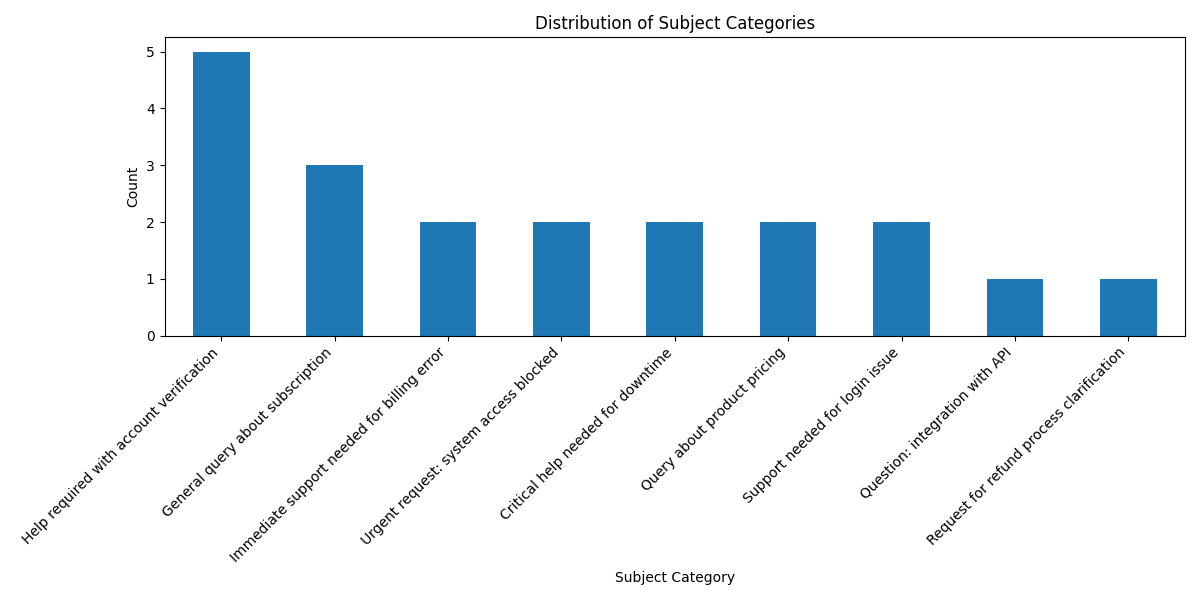
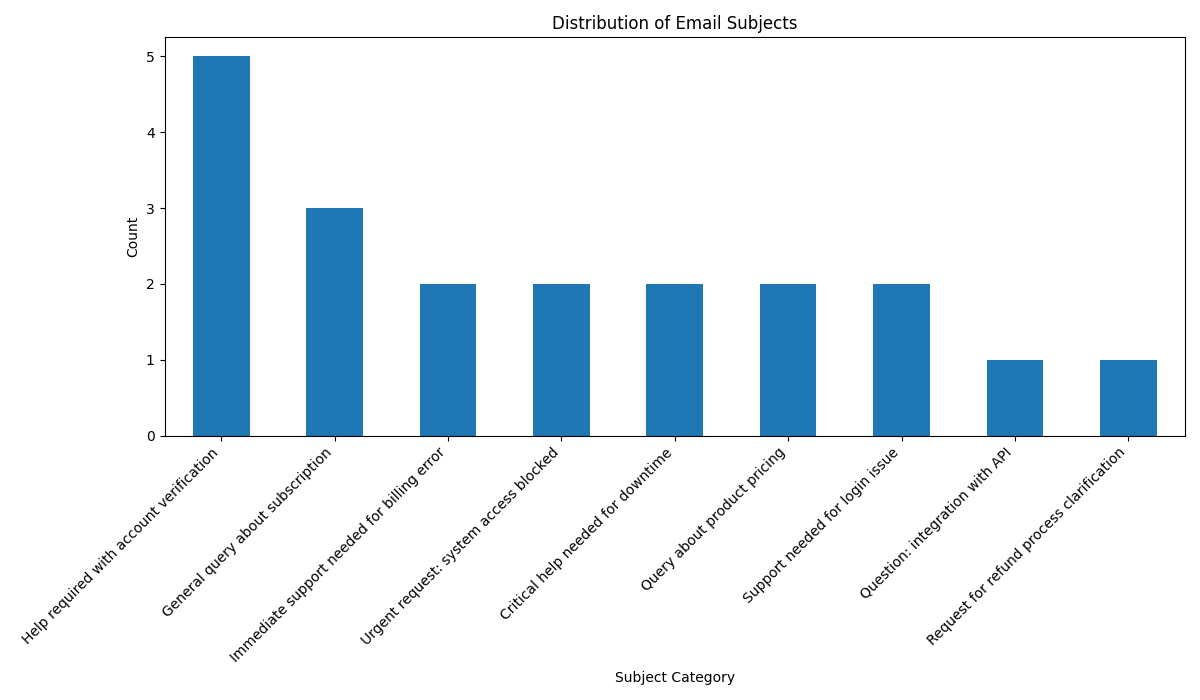
feat: complete data preprocessing and EDA

diff --git a/02_data_preprocessing.py b/02_data_preprocessing.py
@@ -5,61 +5,79 @@ import nltk
 from nltk.corpus import stopwords
 from nltk.tokenize import word_tokenize
 import string
+import re # For removing extra spaces
 
-# Download NLTK stopwords if not already downloaded
+# 2. Download NLTK data: 'punkt', 'stopwords'
 try:
-    stopwords.words('english')
+    nltk.data.find('tokenizers/punkt')
+    nltk.data.find('corpora/stopwords')
 except LookupError:
     nltk.download('punkt')
     nltk.download('stopwords')
 
-# Load the dataset
+# Note: 'punkt_tab' is not a standard NLTK corpus. Assuming it was a typo for 'punkt' or a custom corpus.
+# If it's a custom corpus, it needs to be provided separately.
+
+print("NLTK 'punkt' and 'stopwords' resources checked/downloaded.")
+print("\n")
+
+# 3. Load the CSV and show the first 5 rows
 file_path = 'ai engineer dataset.csv'
 df = pd.read_csv(file_path)
 
-print("Original DataFrame head:")
+print("Dataset loaded successfully.")
+print("First 5 rows of the original DataFrame:")
 print(df.head())
 print("\n")
 
-# 1. Check for missing values
+# 4. Check for missing values
 print("Missing values before preprocessing:")
 print(df.isnull().sum())
 print("\n")
 
-# Fill missing values in 'subject' and 'body' with empty strings if any exist
-df['subject'] = df['subject'].fillna('')
+# Fill missing values in 'body' with empty strings to prevent errors during text cleaning
 df['body'] = df['body'].fillna('')
+print("Missing values in 'body' column filled with empty strings.")
+print("\n")
 
-# 2. Clean the text
+# 5. Create a function to clean the 'body' text
 def clean_text(text):
-    text = text.lower()  # Lowercase
+    text = text.lower()  # Convert to lowercase
     text = ''.join([char for char in text if char not in string.punctuation])  # Remove punctuation
     words = word_tokenize(text)  # Tokenize
     words = [word for word in words if word not in stopwords.words('english')]  # Remove stopwords
-    return ' '.join(words)
+    text = ' '.join(words) # Join words back into a string
+    text = re.sub(r'\s+', ' ', text).strip() # Remove extra spaces
+    return text
 
-# Apply the cleaning function to the 'body' column to create 'cleaned_body'
-df['cleaned_body'] = df['body'].apply(clean_text)
-
-print("DataFrame head after text cleaning:")
-print(df.head())
+print("Text cleaning function defined.")
 print("\n")
 
-# 3. Analyze class imbalance with a bar chart
-plt.figure(figsize=(12, 6))
+# 6. Apply the function to create a new 'cleaned_body' column
+df['cleaned_body'] = df['body'].apply(clean_text)
+print("'cleaned_body' column created by applying text cleaning function.")
+print("\n")
+
+# 7. Show the first 5 rows after cleaning
+print("First 5 rows of the DataFrame after text cleaning:")
+print(df[['body', 'cleaned_body']].head())
+print("\n")
+
+# 8. Create a bar chart of value counts for the 'subject' column
+plt.figure(figsize=(12, 7))
 df['subject'].value_counts().plot(kind='bar')
-plt.title('Distribution of Subject Categories')
+plt.title('Distribution of Email Subjects')
 plt.xlabel('Subject Category')
 plt.ylabel('Count')
 plt.xticks(rotation=45, ha='right')
 plt.tight_layout()
-plt.savefig('subject_distribution.png') # Save the plot
-plt.show() # Display the plot
-
-print("Class distribution plot saved as 'subject_distribution.png' and displayed.")
+plt.savefig('subject_distribution.png')
+print("Bar chart 'subject_distribution.png' created and saved.")
+plt.show()
+print("Bar chart displayed.")
 print("\n")
 
-# 4. Save the cleaned data
+# 9. Save the cleaned DataFrame to 'cleaned_dataset.csv' without the index
 output_file_path = 'cleaned_dataset.csv'
 df.to_csv(output_file_path, index=False)
-print(f"Cleaned data saved to {output_file_path}")
+print(f"Cleaned DataFrame saved to {output_file_path}")
